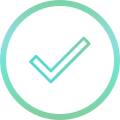
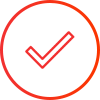
修改 前台样式

Changed region(s): [[0.0, 0.0, 1.0, 1.0], [0.24, 0.3, 0.78, 0.72]]

diff --git a/catalog/controller/checkout/cart.php b/catalog/controller/checkout/cart.php
@@ -231,7 +231,52 @@ class ControllerCheckoutCart extends Controller {
                     }
                 }
             }
-            // print_r( $data['error_warning']);exit;
+
+
+              $order_data = array();
+            $totals = array();
+            $taxes = $this->cart->getTaxes();
+            $total = 0;
+            
+            $total_data = array(
+                'totals' => &$totals,
+                'taxes'  => &$taxes,
+                'total'  => &$total
+            );
+            // print_r($total_data);exit();
+            $this->load->model('extension/extension');
+            $sort_order = array();
+            $results = $this->model_extension_extension->getExtensions('total');
+            
+            foreach ($results as $key => $value) {
+                $sort_order[$key] = $this->config->get($value['code'] . '_sort_order');
+            }
+
+            array_multisort($sort_order, SORT_ASC, $results);
+               // print_r($results);exit();
+            foreach ($results as $result) {
+                if ($this->config->get($result['code'] . '_status')) {
+                    $this->load->model('extension/total/' . $result['code']);
+                    // We have to put the totals in an array so that they pass by reference.
+
+                    $this->{'model_extension_total_' . $result['code']}->getTotal($total_data);
+                }
+            }
+            $sort_order = array();
+            foreach ($totals as $key => $value) {
+                $sort_order[$key] = $value['sort_order'];
+            }
+            // print_r($totals);exit();
+            array_multisort($sort_order, SORT_ASC, $totals);
+            $order_data['totals'] = $totals;
+            $data['totals'] = array();
+            foreach ($order_data['totals'] as $total) {
+                $data['totals'][] = array(
+                    'title' => $total['title'],
+                    'text'  => $this->currency->format($total['value'], $this->session->data['currency'])
+                );
+            }
+            // print_r( $data['totals']);exit;
 
             $data['paypal_checkout'] = HTTP_SERVER.'index.php?route=extension/payment/pp_express/express';
             $data['step_cart'] = $this->language->get('step_cart');
